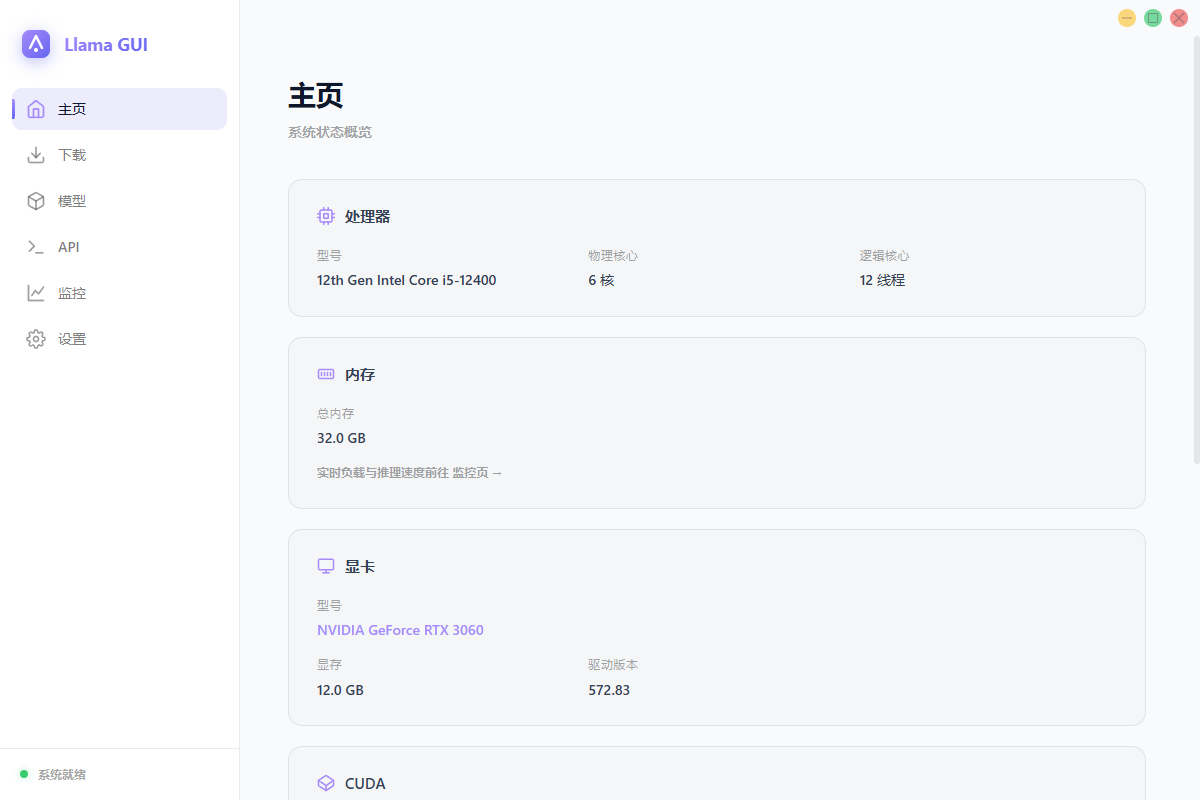
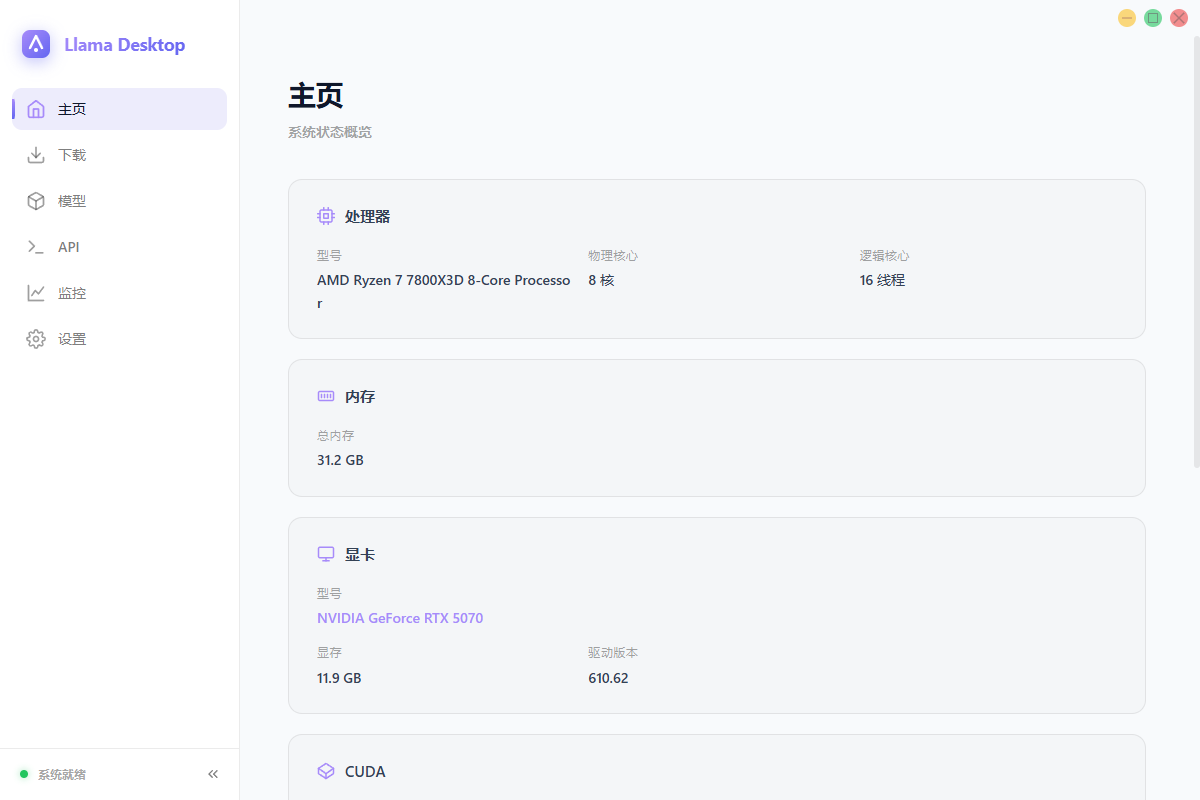
docs(readme): 更新界面截图与过时描述（侧边栏收起/真实搜索/设置 6 分页）
Summary:
- Docs: 界面预览按新顺序重排并新增「侧边栏收起」小节；重拍替换 home/downloads/api/monitor 四图（1200×800 浅色）；模型设置由单图改为 6 张分 tab 截图（基础/推理/内存加载/多 GPU/长上下文/高级），删除被取代的 models-settings-light.png
- Screenshots: 下载页为真实搜索 "qwen" 结果（首个仓库展开文件列表）；API/监控为桥接层仿真数据截图（运行中状态与服务日志、双速度指标+折线图+负载卡片）
- README 中英同步修正过时内容：技术栈 Wails v2.14 / Go 1.25、环境要求 Go 1.25+、store 职责描述、配置字段清单补 language/trayEnabled/sidebarCollapsed、功能列表并入侧边栏伸缩

Verification:
- 两份 README 的 14 个 docs/screenshots/ 引用逐一核对全部存在，目录无未引用文件
- git diff --check 无错误（纯文档与图片改动，未触碰代码）

Remaining gaps:
- None

diff --git a/README.en.md b/README.en.md
@@ -10,17 +10,23 @@ Llama Desktop is a local LLM desktop management tool built on **Wails v2** (Go +
 
 ## Screenshots
 
+### Collapsible Sidebar
+
+The sidebar can be collapsed to a 64px icon rail (toggle it with the « / » button at the bottom; hovering an icon shows its label as a tooltip). It is collapsed by default, and the preference is persisted to the configuration.
+
+![Sidebar collapsed](docs/screenshots/sidebar-collapsed-light.png)
+
 ### Home — System Overview
 
 Automatically detects CPU / memory / NVIDIA GPU / CUDA environment and shows the llama.cpp installation status; if not installed, you can download it in one click, or point the app to a custom directory. A footer hint links to the Monitor page for real-time load and inference speed.
 
 ![Home](docs/screenshots/home-light.png)
 
-### Monitor — Real-time Load & Inference Speed
+### Downloads — Dual-Source Model Search
 
-The inference service section shows a service status badge and uptime, with two side-by-side metric cards for prompt-processing speed and generation speed, plus a line chart of generation speed (refreshed every 1 second). Below are live CPU / memory / GPU load. Prompt-processing speed updates in real time during prefilling and settles on its final value when the request ends; generation speed reflects live decoding throughput.
+Search and download models via **HF Mirror (hf-mirror.com) or ModelScope (魔搭)** (HF Mirror is the default; switch in Settings). Search results expand into file lists (sorted by size, with quantization tags detected) and support multi-file batch downloads. Download tasks live in a popup behind the "Download" button (the button badge shows the number of active tasks), with pause / resume / cancel, resumable transfers, live speed display, and a persisted queue that auto-recovers after a restart.
 
-![Monitor](docs/screenshots/monitor-light.png)
+![Model downloads](docs/screenshots/downloads-light.png)
 
 ### Models — GGUF Model Management
 
@@ -32,7 +38,29 @@ Scans GGUF files under the `LLM-Models` directory, automatically parsing archite
 
 Configure inference parameters per model in a tabbed dialog (Basic / Inference / Memory & Loading / Multi-GPU / Long Context / Advanced, 6 tabs): CPU threads, GPU layers, context size, Batch / μBatch, MoE CPU layers, KV cache K/V types, loading mode (mlock / mmap), model splitting mode, per-GPU ratio, main GPU, RoPE extrapolation mode and scale, vision projection file (mmproj), speculative decoding (MTP) with extra prediction tokens, and more. Saving writes the settings into a llama-server preset.
 
-![Model settings](docs/screenshots/models-settings-light.png)
+**Basic**: CPU threads, GPU layers, context size, Batch / μBatch
+
+![Model settings · Basic](docs/screenshots/models-settings-base-light.png)
+
+**Inference**: Flash Attention, cpu-moe, MoE CPU layers
+
+![Model settings · Inference](docs/screenshots/models-settings-infer-light.png)
+
+**Memory & Loading**: KV cache K/V types, loading mode (mmap / mlock / dio)
+
+![Model settings · Memory & Loading](docs/screenshots/models-settings-memory-light.png)
+
+**Multi-GPU**: model splitting mode, per-GPU ratio, main GPU
+
+![Model settings · Multi-GPU](docs/screenshots/models-settings-gpu-light.png)
+
+**Long Context**: RoPE extrapolation mode and scale
+
+![Model settings · Long Context](docs/screenshots/models-settings-context-light.png)
+
+**Advanced**: vision projection file (mmproj), reasoning, speculative decoding (MTP) and extra prediction tokens
+
+![Model settings · Advanced](docs/screenshots/models-settings-advanced-light.png)
 
 ### API — llama-server Router Mode
 
@@ -40,11 +68,11 @@ Start / stop llama-server (router mode) with one click, configuring Host / Port,
 
 ![API service](docs/screenshots/api-light.png)
 
-### Downloads — Dual-Source Model Search
+### Monitor — Real-time Load & Inference Speed
 
-Search and download models via **HF Mirror (hf-mirror.com) or ModelScope (魔搭)** (HF Mirror is the default; switch in Settings). Search results expand into file lists (sorted by size, with quantization tags detected) and support multi-file batch downloads. Download tasks live in a popup behind the "Download" button (the button badge shows the number of active tasks), with pause / resume / cancel, resumable transfers, live speed display, and a persisted queue that auto-recovers after a restart.
+The inference service section shows a service status badge and uptime, with two side-by-side metric cards for prompt-processing speed and generation speed, plus a line chart of generation speed (refreshed every 1 second). Below are live CPU / memory / GPU load. Prompt-processing speed updates in real time during prefilling and settles on its final value when the request ends; generation speed reflects live decoding throughput.
 
-![Model downloads](docs/screenshots/downloads-light.png)
+![Monitor](docs/screenshots/monitor-light.png)
 
 ### Settings — Theme & Download Source
 
@@ -69,13 +97,13 @@ The app also ships a dark appearance for late-night use.
 7. **OpenAI-compatible API**: Once the service is up, any OpenAI-compatible client can connect directly (ChatGPT-Next-Web, LobeChat, Open WebUI, etc.).
 8. **Real-time monitoring**: Inference service status and uptime, side-by-side prompt-processing / generation speed cards, a generation speed line chart, plus live CPU / memory / GPU load — refreshed every 1 second.
 9. **Self-update**: "Check for Updates" in Settings detects new versions, downloads the update package in a dialog, and you complete the upgrade by manually replacing the program files.
-10. **Theme system**: Dark / light themes based on CSS variables, with the preference persisted locally.
+10. **Theme & UI preferences**: Dark / light themes based on CSS variables, with the preference persisted locally; the sidebar can be collapsed to a 64px icon rail (collapsed by default), with the preference persisted as well.
 
 ## Tech Stack
 
 | Layer | Technology |
 | --- | --- |
-| Desktop framework | [Wails v2](https://wails.io) (Go 1.22 + WebView2) |
+| Desktop framework | [Wails v2.14](https://wails.io) (Go 1.25 + WebView2) |
 | Backend | Go (stdlib-focused, zero third-party business dependencies) |
 | Frontend | Vue 3 + TypeScript + Vite 5 + vue-router (no third-party UI libraries, hand-written CSS-variable themes) |
 | Inference engine | [llama.cpp](https://github.com/ggml-org/llama.cpp) (llama-server, router mode) |
@@ -95,7 +123,7 @@ graph LR
 
 ### Prerequisites
 
-- [Go](https://go.dev/dl/) 1.22+
+- [Go](https://go.dev/dl/) 1.25+
 - [Node.js](https://nodejs.org/) 18+ (for building the frontend)
 - [Wails CLI](https://wails.io/docs/gettingstarted/installation):
 
@@ -166,7 +194,7 @@ llama-cpp-desktop/
     ├── src/
     │   ├── App.vue            # Layout (sidebar + custom title bar)
     │   ├── wails.ts           # Wails backend bridge (window.go.core.App)
-    │   ├── store.ts           # Global state (theme)
+    │   ├── store.ts           # Global state (theme / language / tray / sidebar, etc. preferences)
     │   ├── router/            # Routes (hash mode: Home / Downloads / Models / API / Monitor / Settings)
     │   ├── views/             # Pages: Home / Downloads / Models / Api / Monitor / Settings
     │   ├── components/        # Sidebar, ModelSettings, UpdateModal
@@ -181,6 +209,9 @@ llama-cpp-desktop/
 Runtime configuration is persisted to `llama-desktop-config.json` at the project root and includes:
 
 - `theme`: theme (`dark` / `light`)
+- `language`: UI language (`zh` / `en` / `auto`)
+- `trayEnabled`: system tray switch (on by default)
+- `sidebarCollapsed`: sidebar collapsed state (collapsed by default)
 - `llamaCppDir`: custom llama.cpp directory
 - `modelDir`: model directory (defaults to `LLM-Models`)
 - `modelConfigs`: per-model inference parameters
